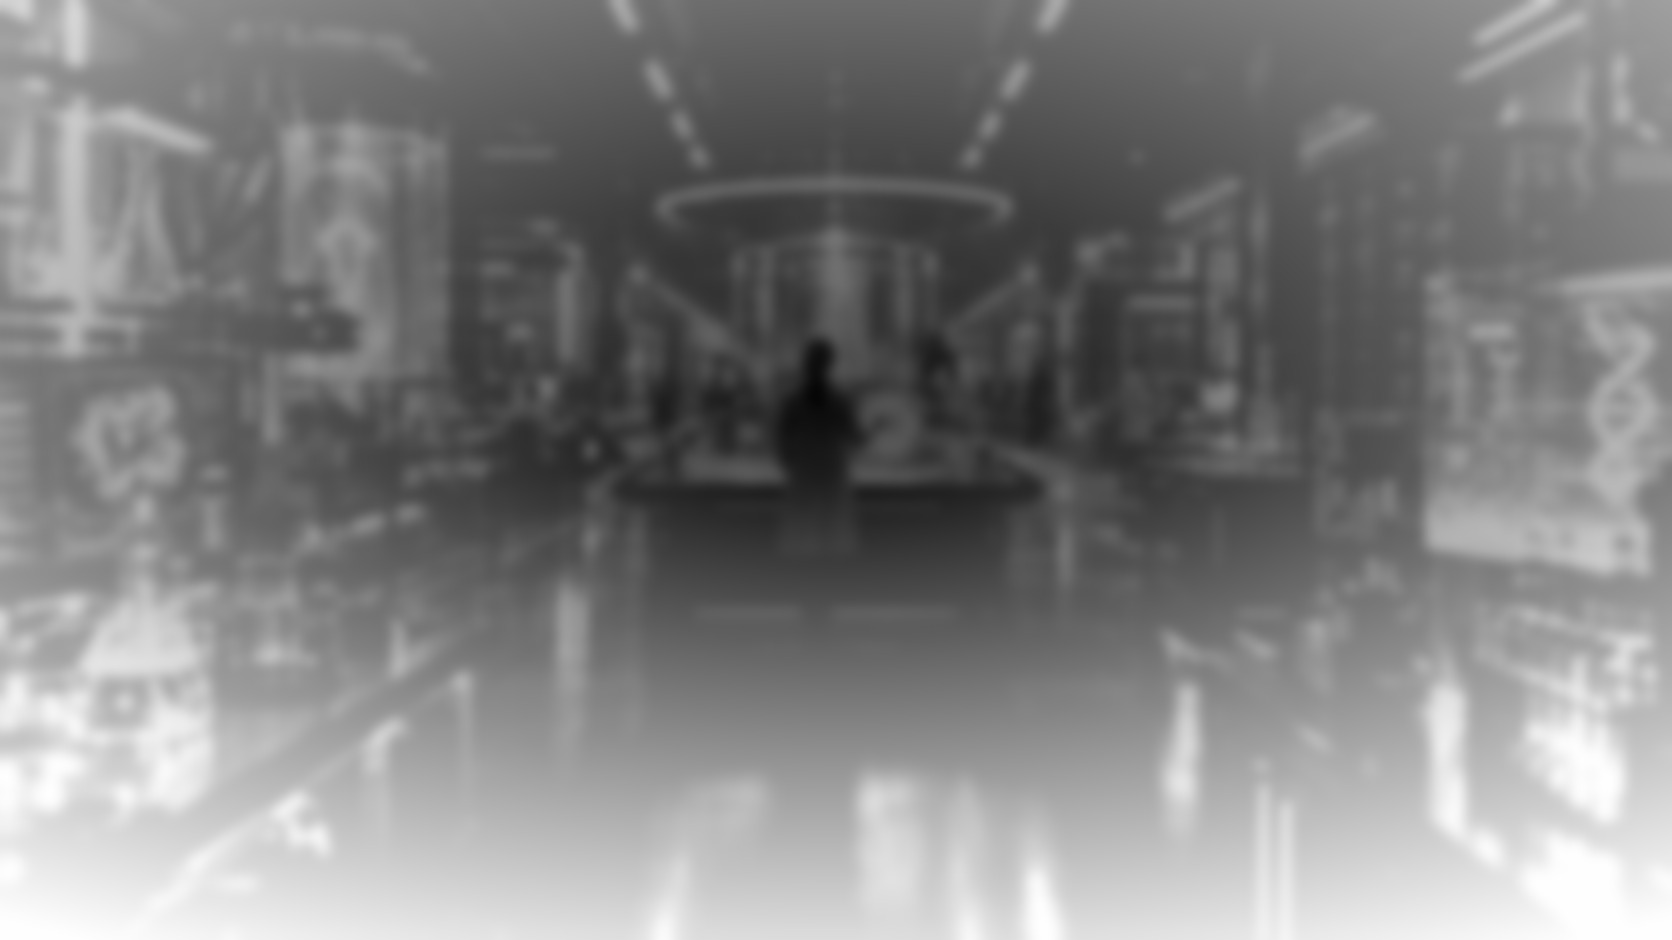
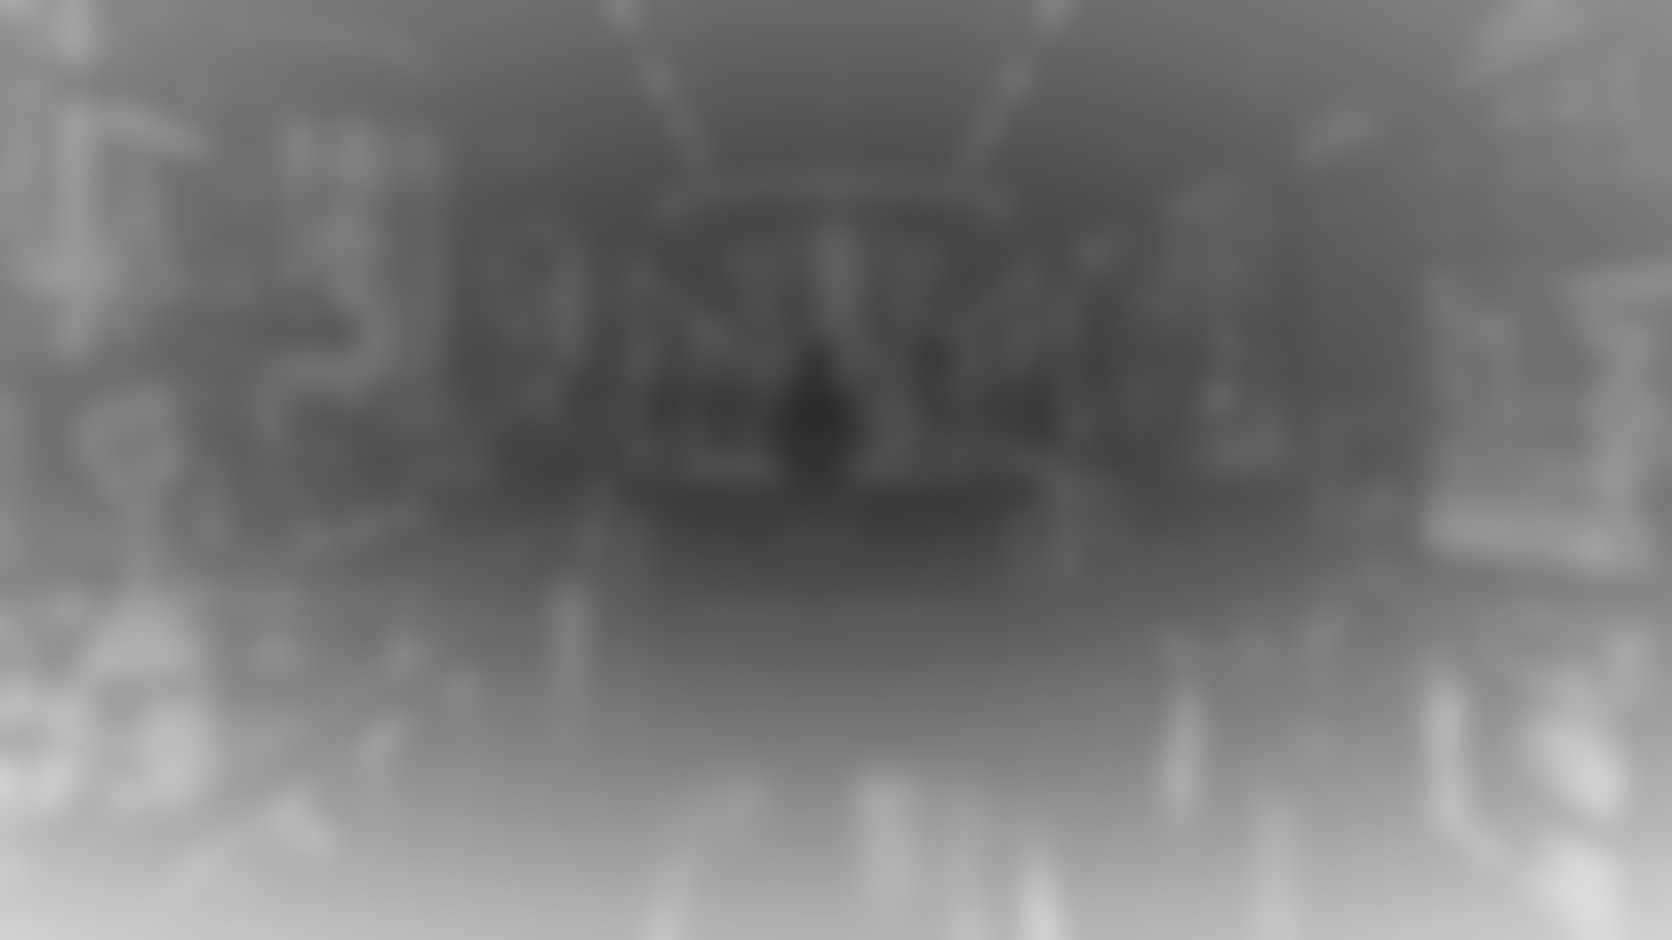
Fondo: parallax mas suave (menos desplazamiento, profundidad comprimida y difuminada) para que la imagen no se rompa

diff --git a/capas.html b/capas.html
@@ -431,7 +431,7 @@ h2 b{color:var(--accent2)}
     var depTex=loader.load(canvas.getAttribute('data-dep'));depTex.minFilter=THREE.LinearFilter;
     var uni={uColor:{value:colTex},uDepth:{value:depTex},uDisplace:{value:0},uFog:{value:new THREE.Color(0.03,0.09,0.10)}};
     var mat=new THREE.ShaderMaterial({uniforms:uni,
-      vertexShader:['varying vec2 vUv;','varying float vD;','uniform sampler2D uDepth;','uniform float uDisplace;','void main(){vUv=uv;float d=texture2D(uDepth,uv).r;vD=d;vec3 p=position;p.z+=(d-0.35)*uDisplace;gl_Position=projectionMatrix*modelViewMatrix*vec4(p,1.0);}'].join('\n'),
+      vertexShader:['varying vec2 vUv;','varying float vD;','uniform sampler2D uDepth;','uniform float uDisplace;','void main(){vUv=uv;float d=texture2D(uDepth,uv).r;vD=d;float o=d-0.4;o=sign(o)*pow(abs(o),1.35);vec3 p=position;p.z+=o*uDisplace;gl_Position=projectionMatrix*modelViewMatrix*vec4(p,1.0);}'].join('\n'),
       fragmentShader:['varying vec2 vUv;','varying float vD;','uniform sampler2D uColor;','uniform vec3 uFog;','void main(){','vec4 c=texture2D(uColor,vUv);','float far=smoothstep(0.0,0.65,1.0-vD);','c.rgb=mix(c.rgb,uFog,far*0.5);','c.rgb*=1.0+(vD-0.5)*0.14;','vec2 q=vUv-0.5;float vig=smoothstep(0.98,0.30,length(q));','c.rgb*=mix(0.70,1.0,vig);','gl_FragColor=c;','}'].join('\n')});
     var ASPECT=16/9,mesh=new THREE.Mesh(new THREE.PlaneGeometry(ASPECT,1,isSmall?140:230,isSmall?80:130),mat);scene.add(mesh);
     var rig={renderer:renderer,scene:scene,camera:camera,uni:uni,mesh:mesh,FOV:FOV,CAMD:CAMD,ASPECT:ASPECT,mx:0,my:0,fitted:false};
@@ -453,8 +453,8 @@ h2 b{color:var(--accent2)}
     if(!bgRig.fitted)bgRig.fit();
     bgRig.mx+=((tmx+ax)-bgRig.mx)*0.05;bgRig.my+=((tmy+ay)-bgRig.my)*0.05;
     var sc=(scrollY/Math.max(1,innerHeight))%1;
-    bgRig.camera.position.x=bgRig.mx*0.15;bgRig.camera.position.y=-bgRig.my*0.10+(sc-0.5)*0.05;bgRig.camera.lookAt(0,0,0);
-    if(bgRig.uni.uDisplace.value<0.34)bgRig.uni.uDisplace.value+=0.005;bgRig.renderer.render(bgRig.scene,bgRig.camera);
+    bgRig.camera.position.x=bgRig.mx*0.11;bgRig.camera.position.y=-bgRig.my*0.075+(sc-0.5)*0.04;bgRig.camera.lookAt(0,0,0);
+    if(bgRig.uni.uDisplace.value<0.19)bgRig.uni.uDisplace.value+=0.004;bgRig.renderer.render(bgRig.scene,bgRig.camera);
     if(!isSmall){var mx=bgRig.mx,my=bgRig.my;for(var k=0;k<vis.length;k++){var cp=vis[k];var ce=cp.__ce||(cp.__ce=cp.querySelector('.char')),co=cp.__co||(cp.__co=cp.querySelector('.content'));if(ce)ce.style.transform='translate3d('+(-mx*18)+'px,'+(-my*10)+'px,0)';if(co)co.style.transform='translate3d('+(mx*10)+'px,'+(my*6)+'px,0)';}}
   }loop();
   // live latency readout
